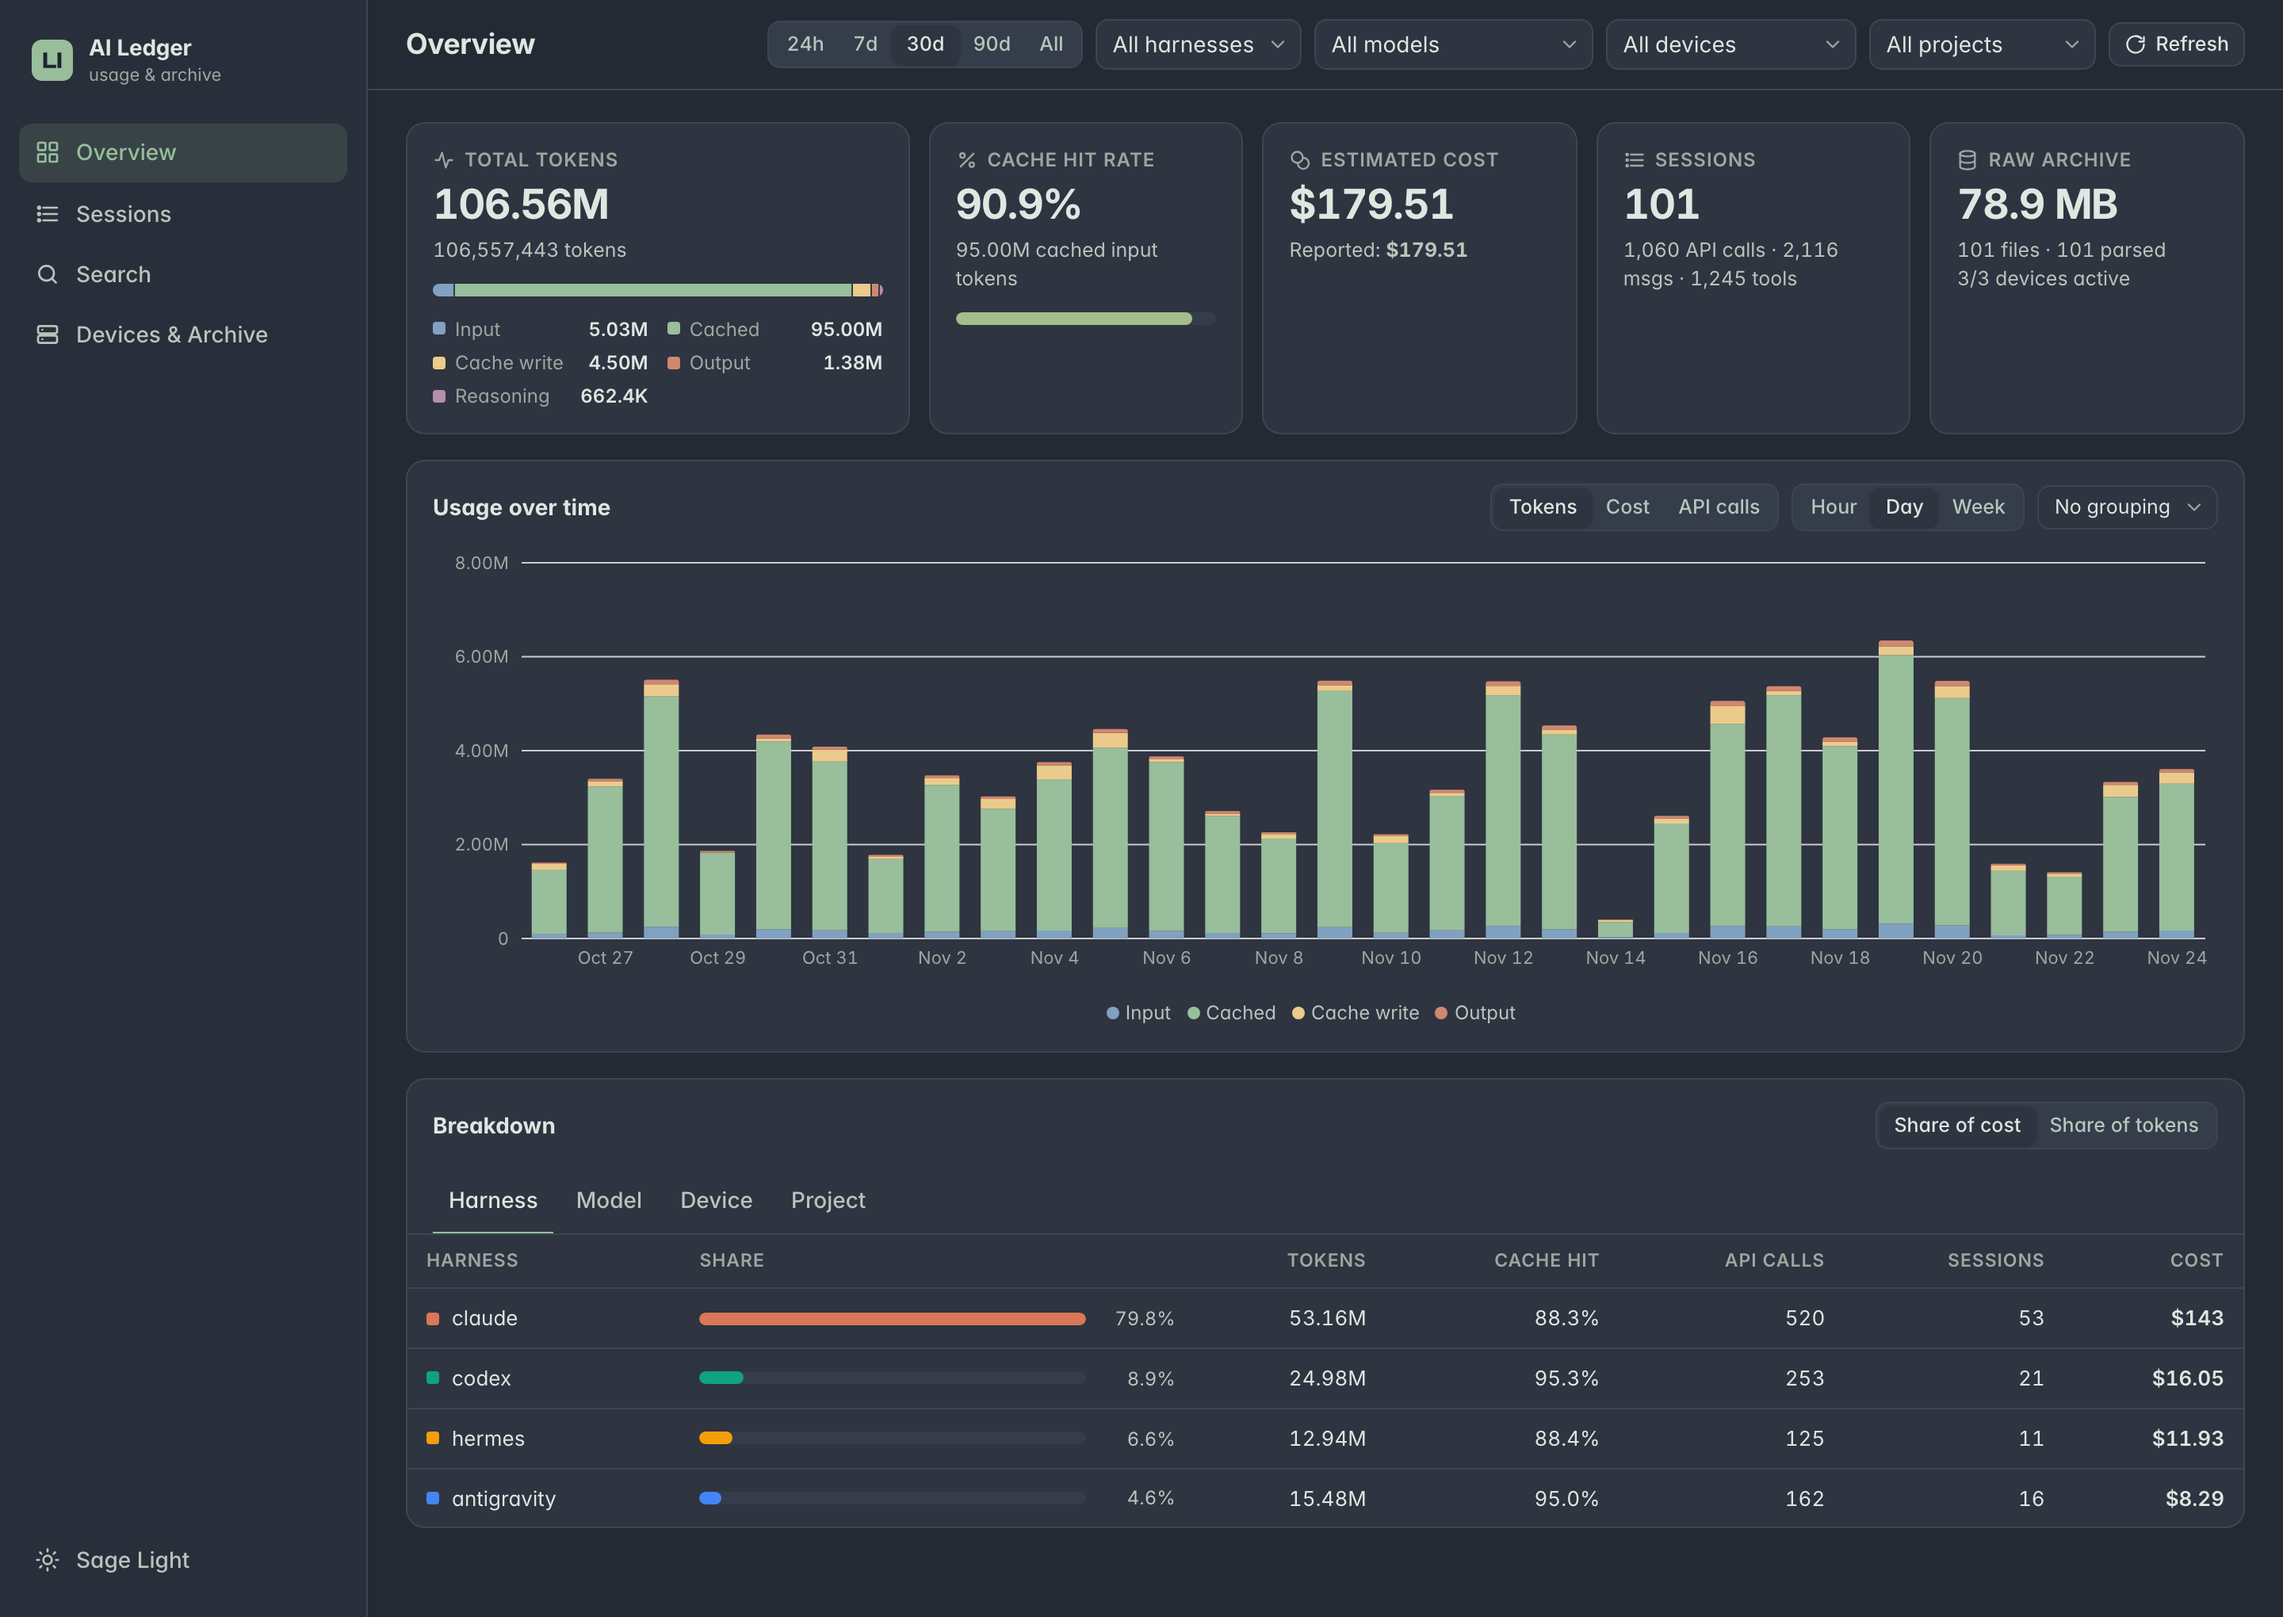
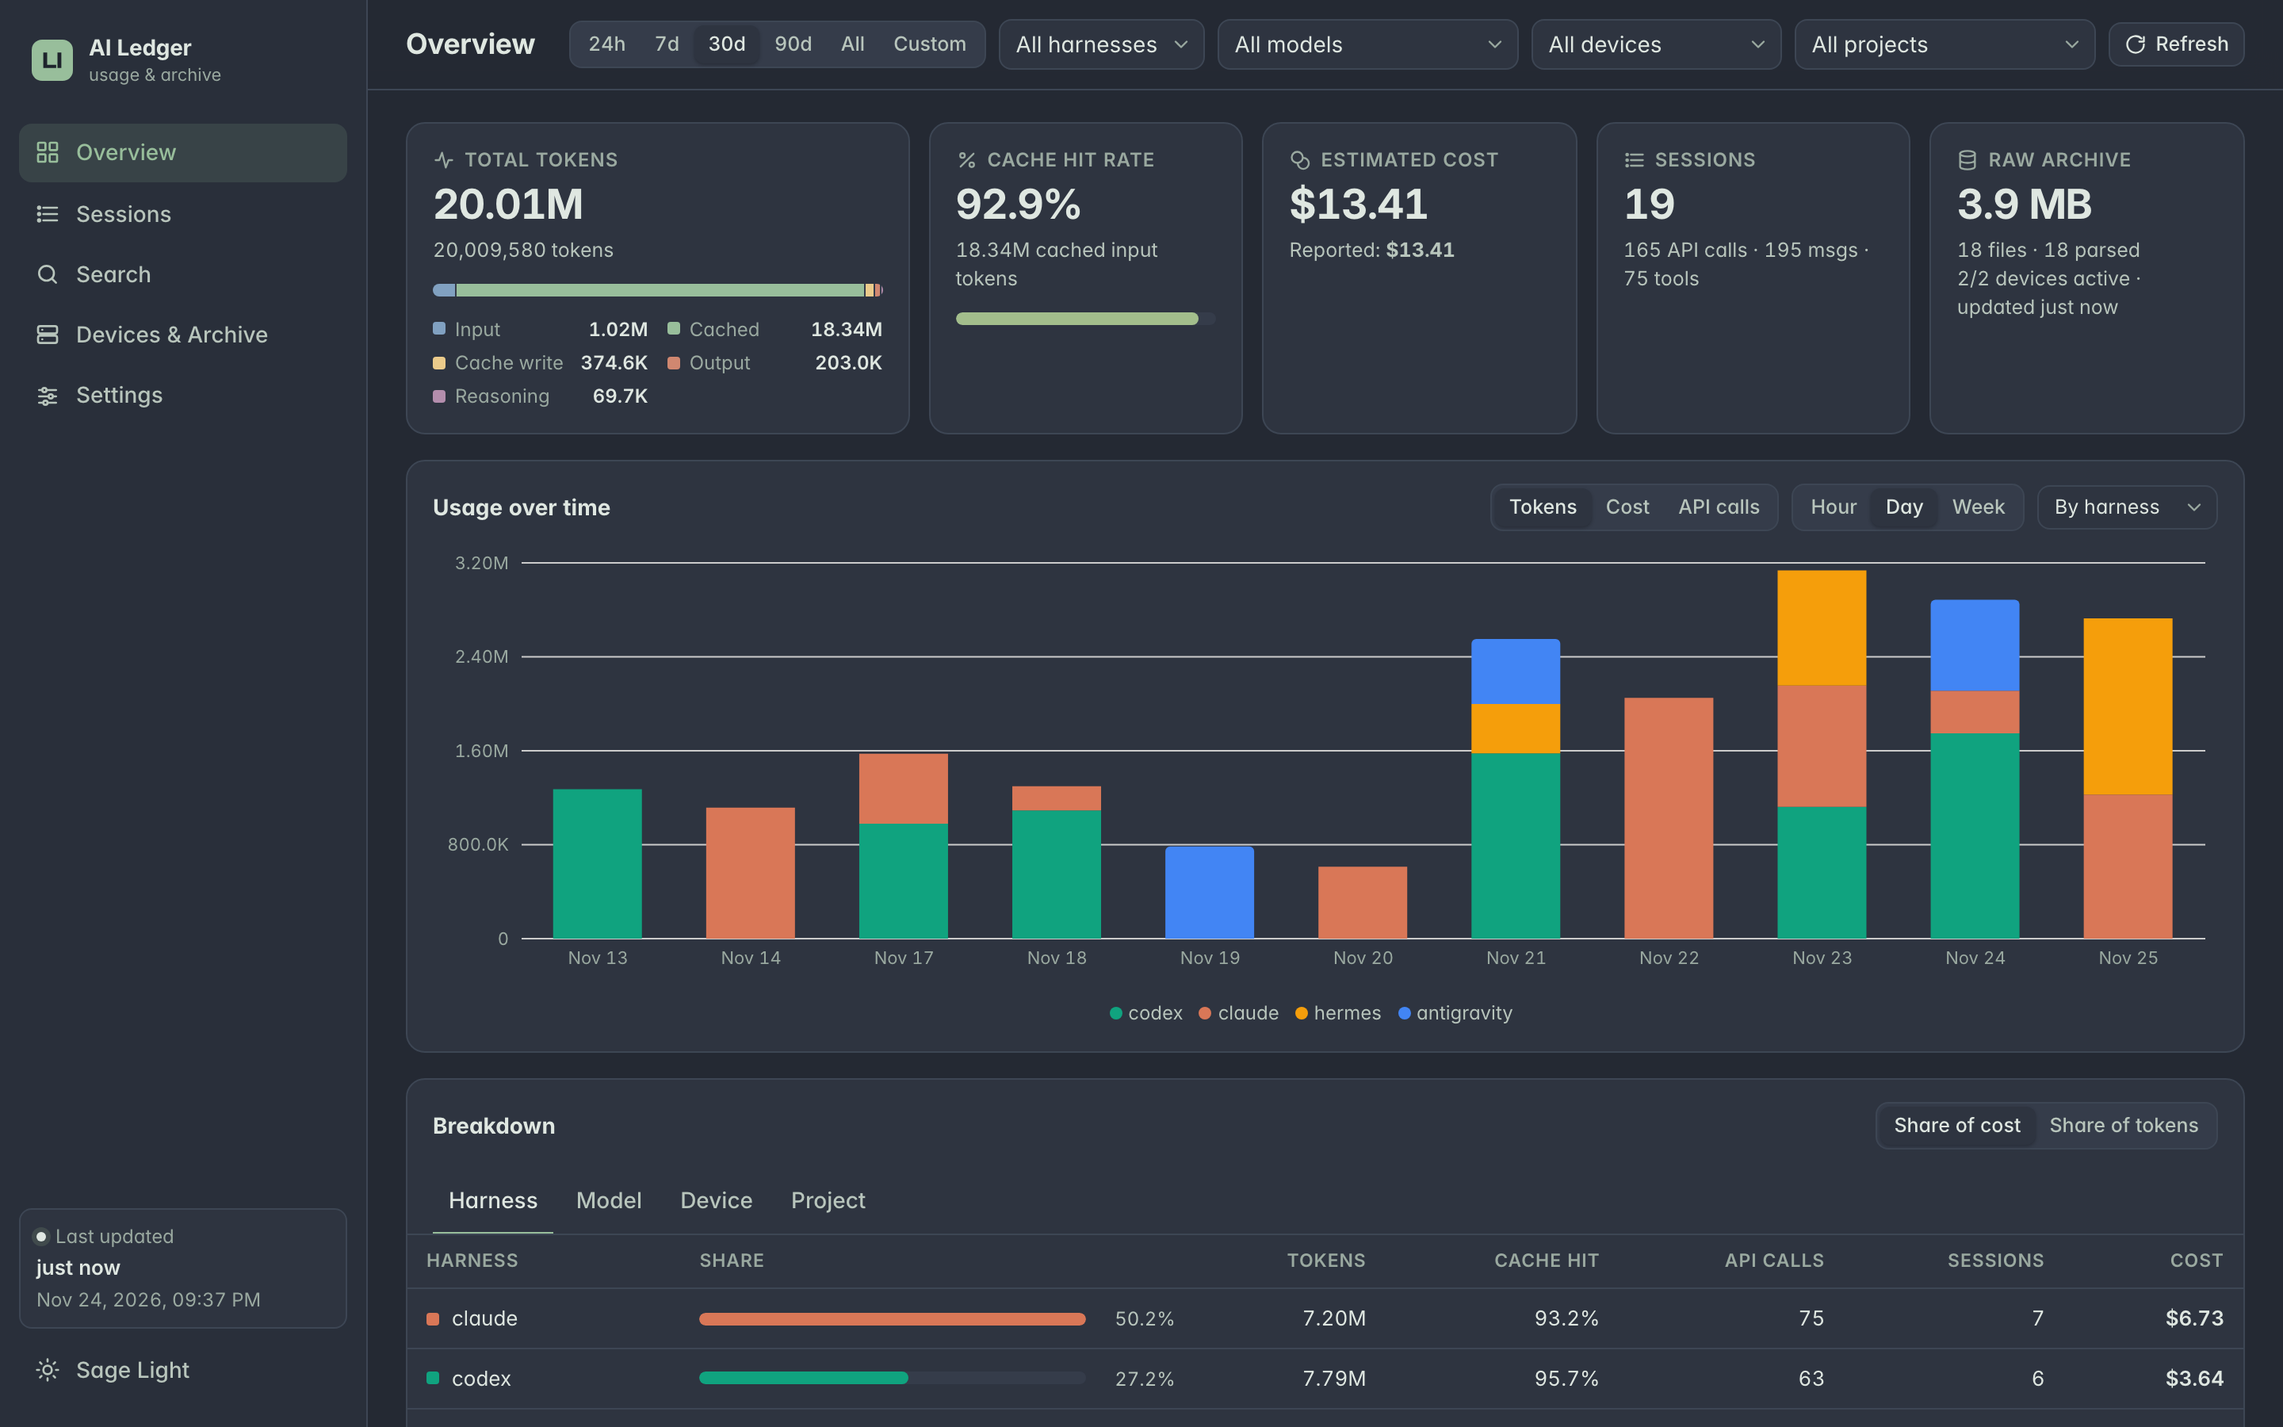
Refresh dashboard screenshots with pricing settings and date filters

diff --git a/README.md b/README.md
@@ -14,6 +14,8 @@ It collects local session logs from your machines (without intercepting or proxy
 
 ![AI Ledger Session Inspector](docs/images/session-inspector.png)
 
+![AI Ledger Pricing Settings](docs/images/pricing-settings.png)
+
 ## Lightweight Single-Binary Architecture
 
 Both `ai-ledger-server` and `ai-ledger-collector` compile into standalone `CGO_ENABLED=0` static Go binaries with zero runtime dependencies. The server embeds the React + Vite web dashboard, SQLite migrations, and IANA timezone data inside one executable and ships as a minimal multi-arch `FROM scratch` Docker image (`linux/amd64` and `linux/arm64`).
